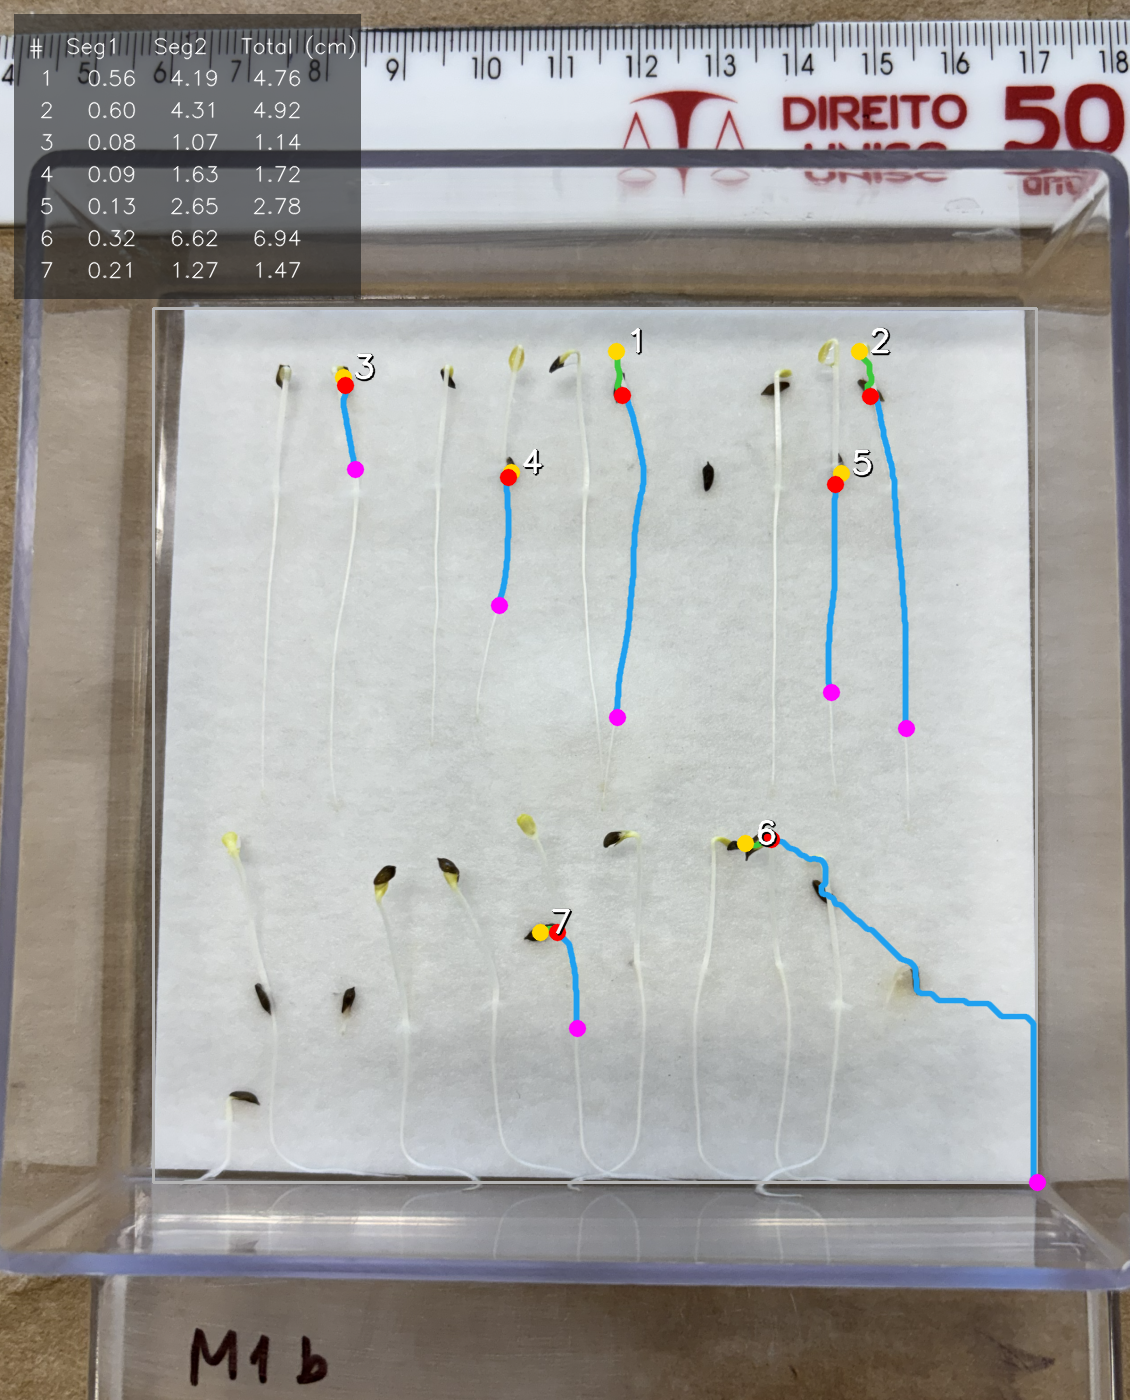
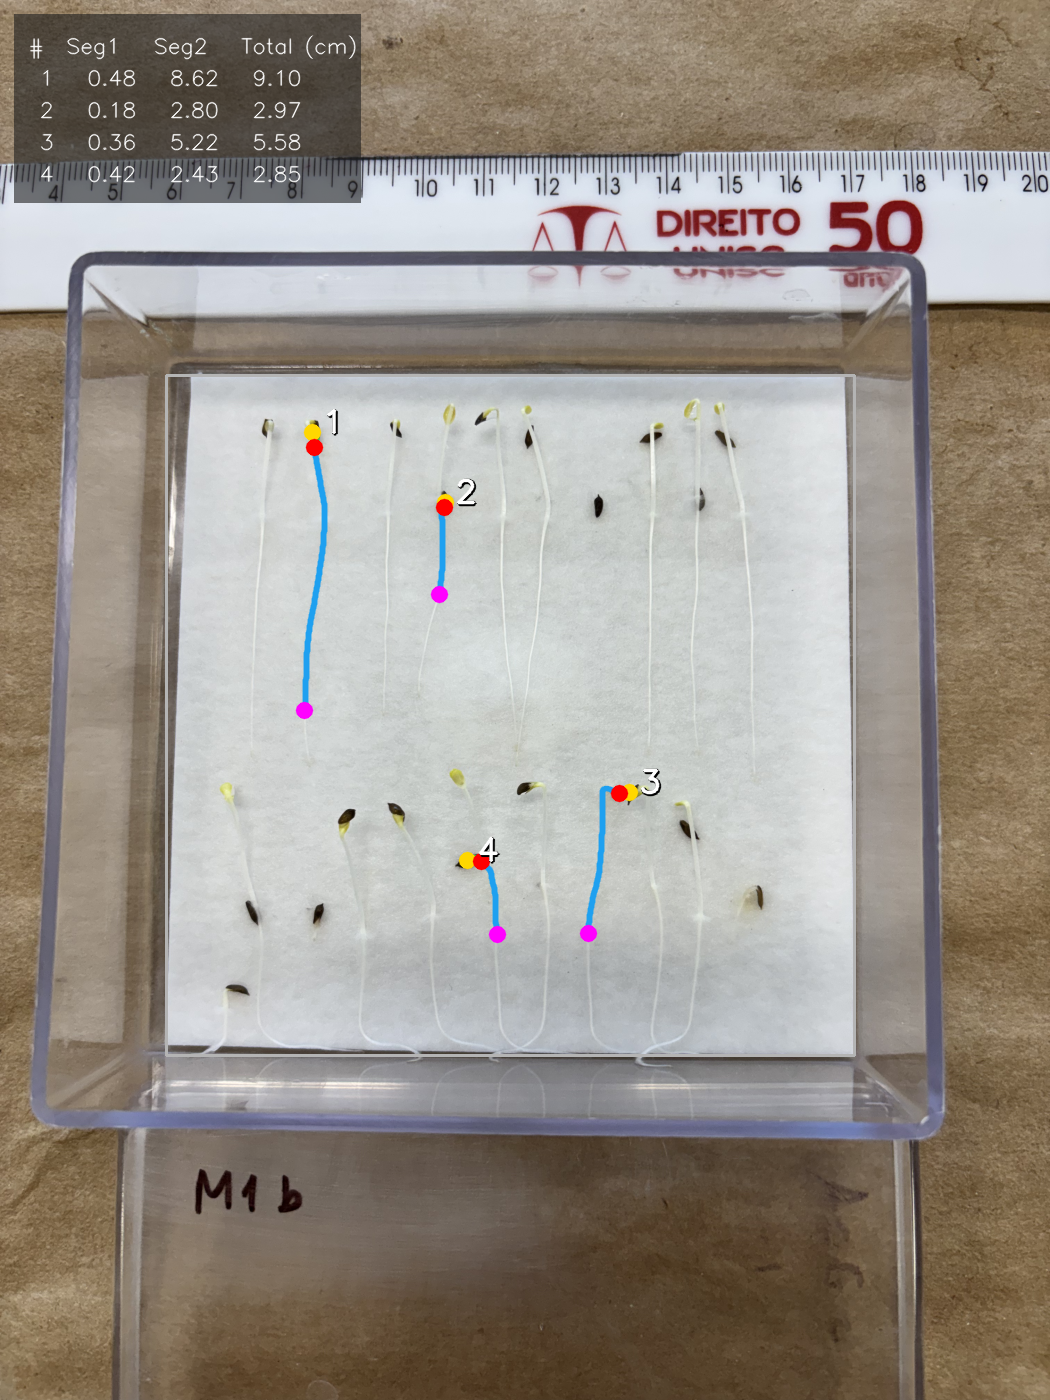
ultimas modificações

diff --git a/tools/convert_heic.py b/tools/convert_heic.py
@@ -1,4 +1,4 @@
-"""Converte uma imagem HEIC para PNG (e gera uma versao reduzida para inspecao)."""
+"""Converte uma imagem HEIC para PNG"""
 import sys
 from pathlib import Path
 
@@ -16,12 +16,6 @@ def main():
     dst.parent.mkdir(parents=True, exist_ok=True)
     img.save(dst, "PNG")
     print(f"Salvo {dst} tamanho={img.size}")
-    preview = img.copy()
-    preview.thumbnail((1400, 1400))
-    prev_path = dst.with_name(dst.stem + "_preview.png")
-    preview.save(prev_path, "PNG")
-    print(f"Preview {prev_path} tamanho={preview.size}")
-
 
 if __name__ == "__main__":
     main()